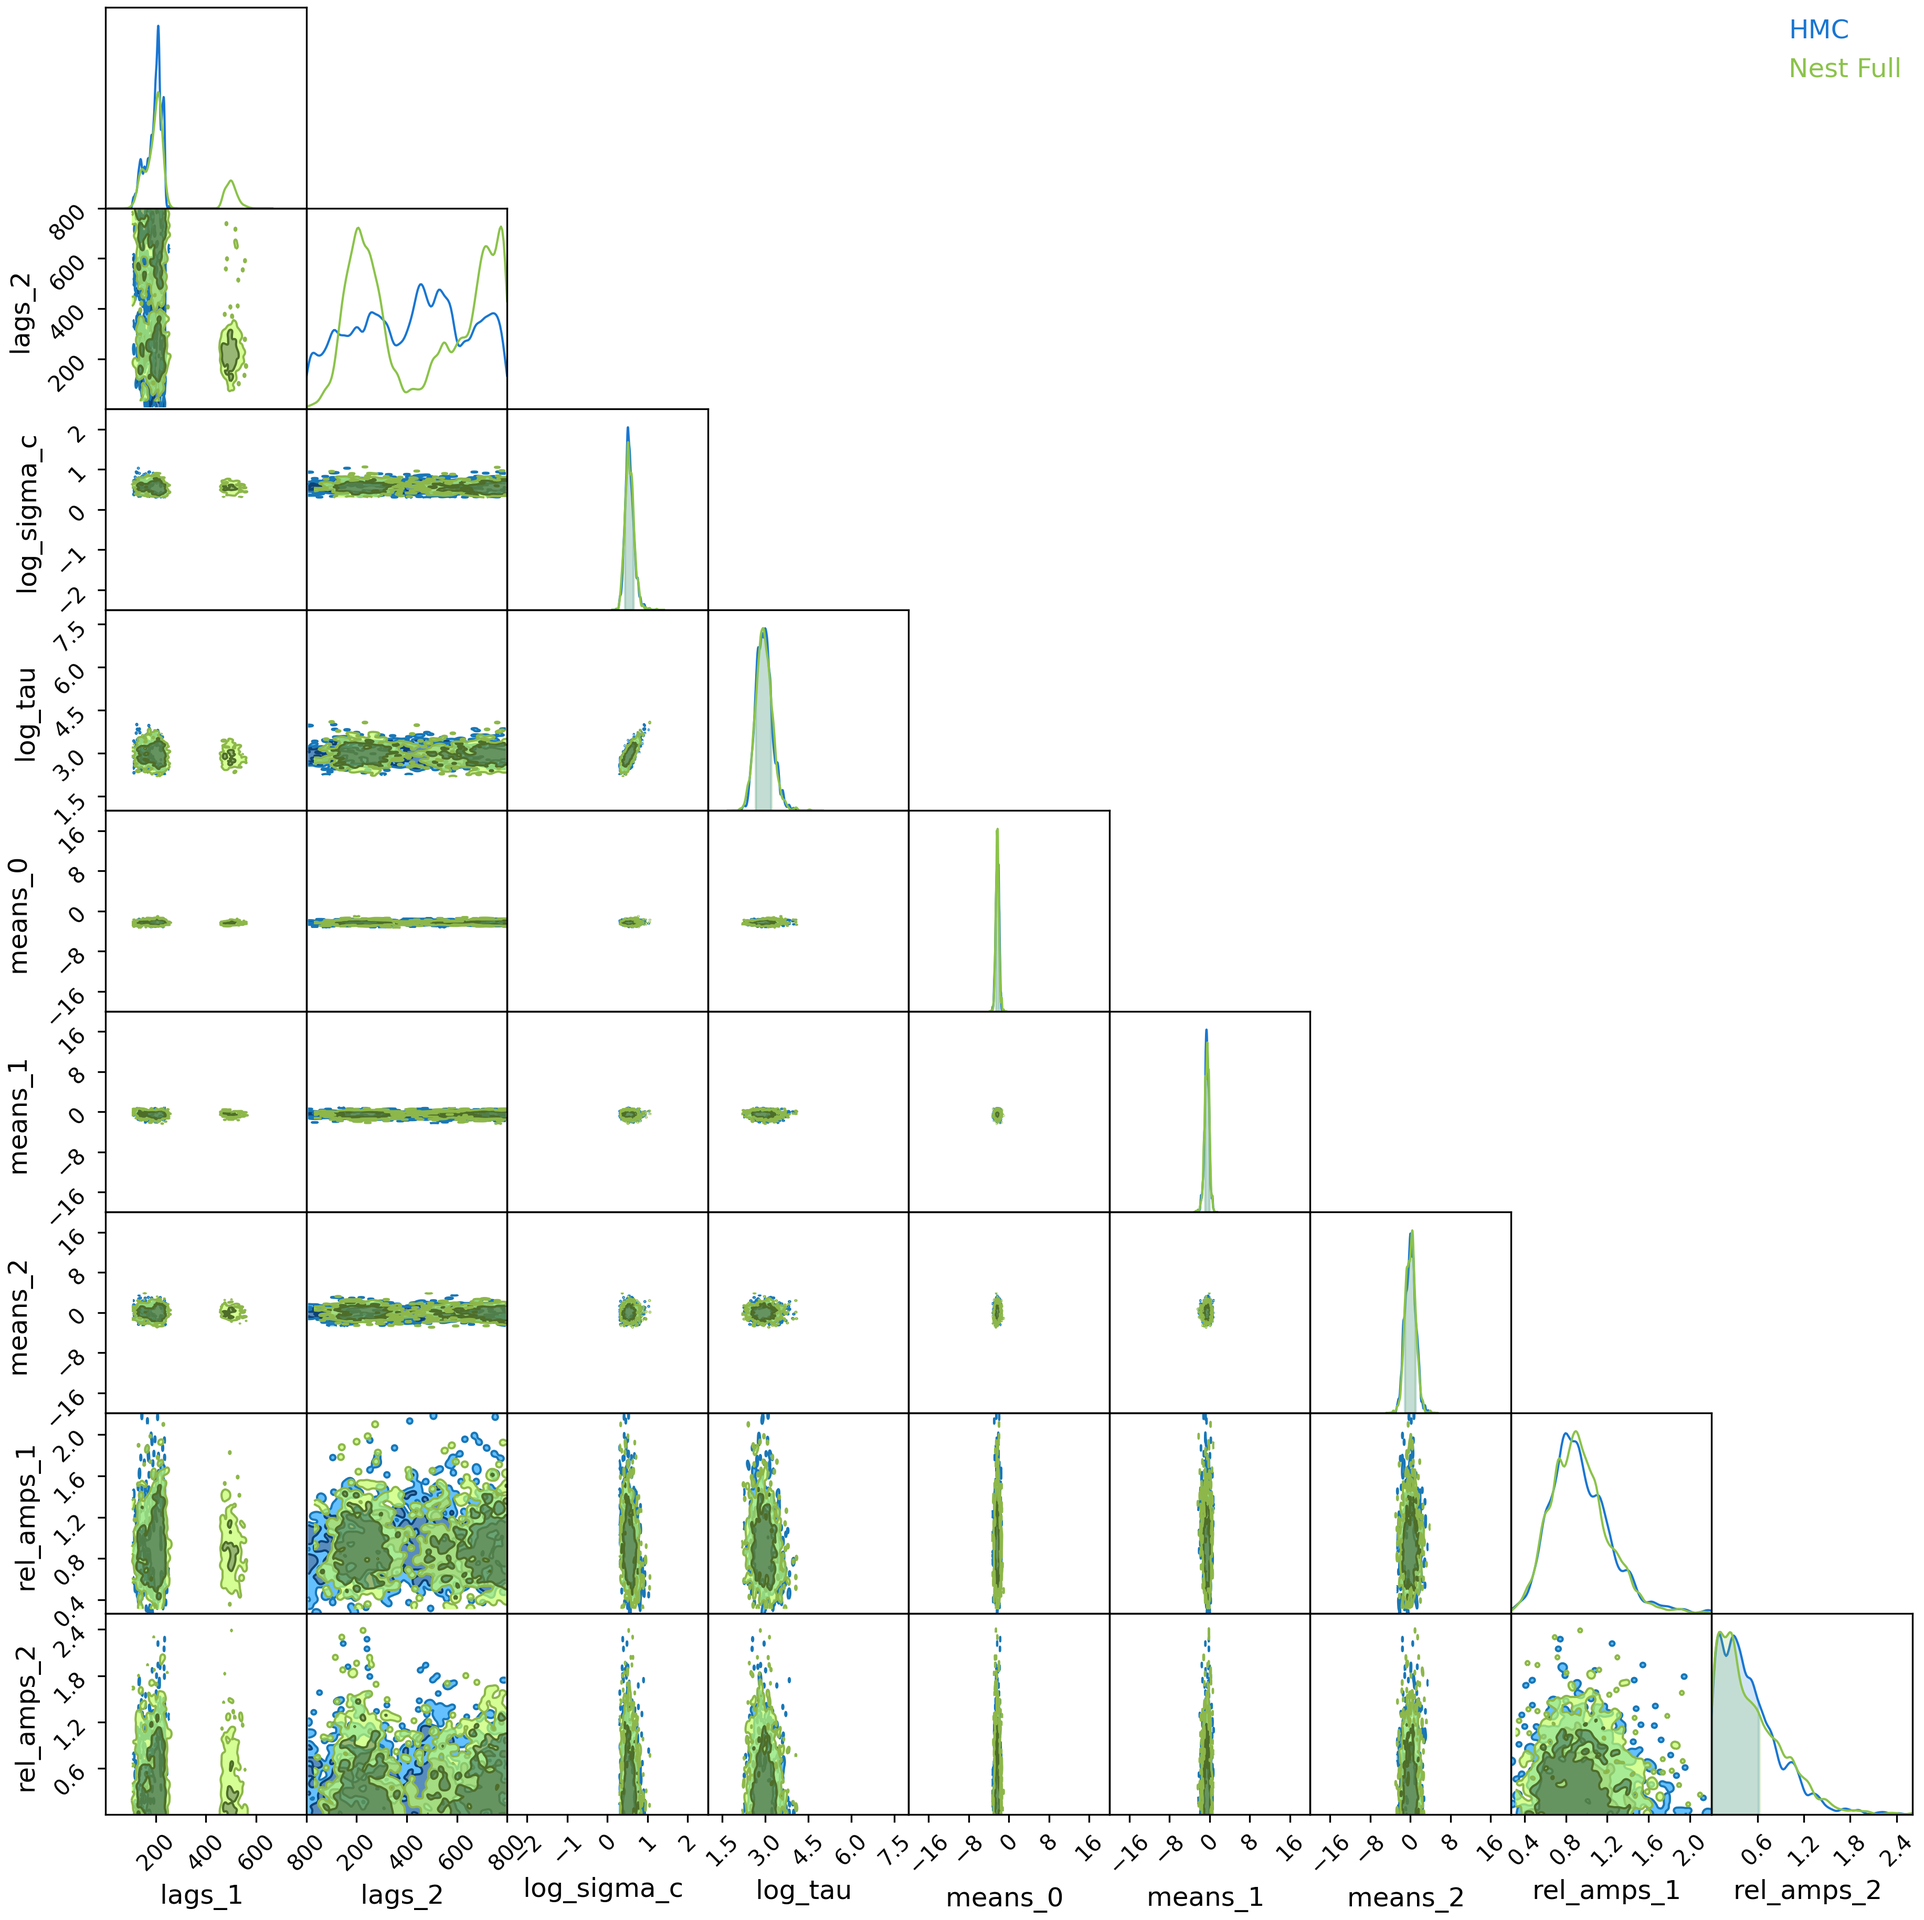
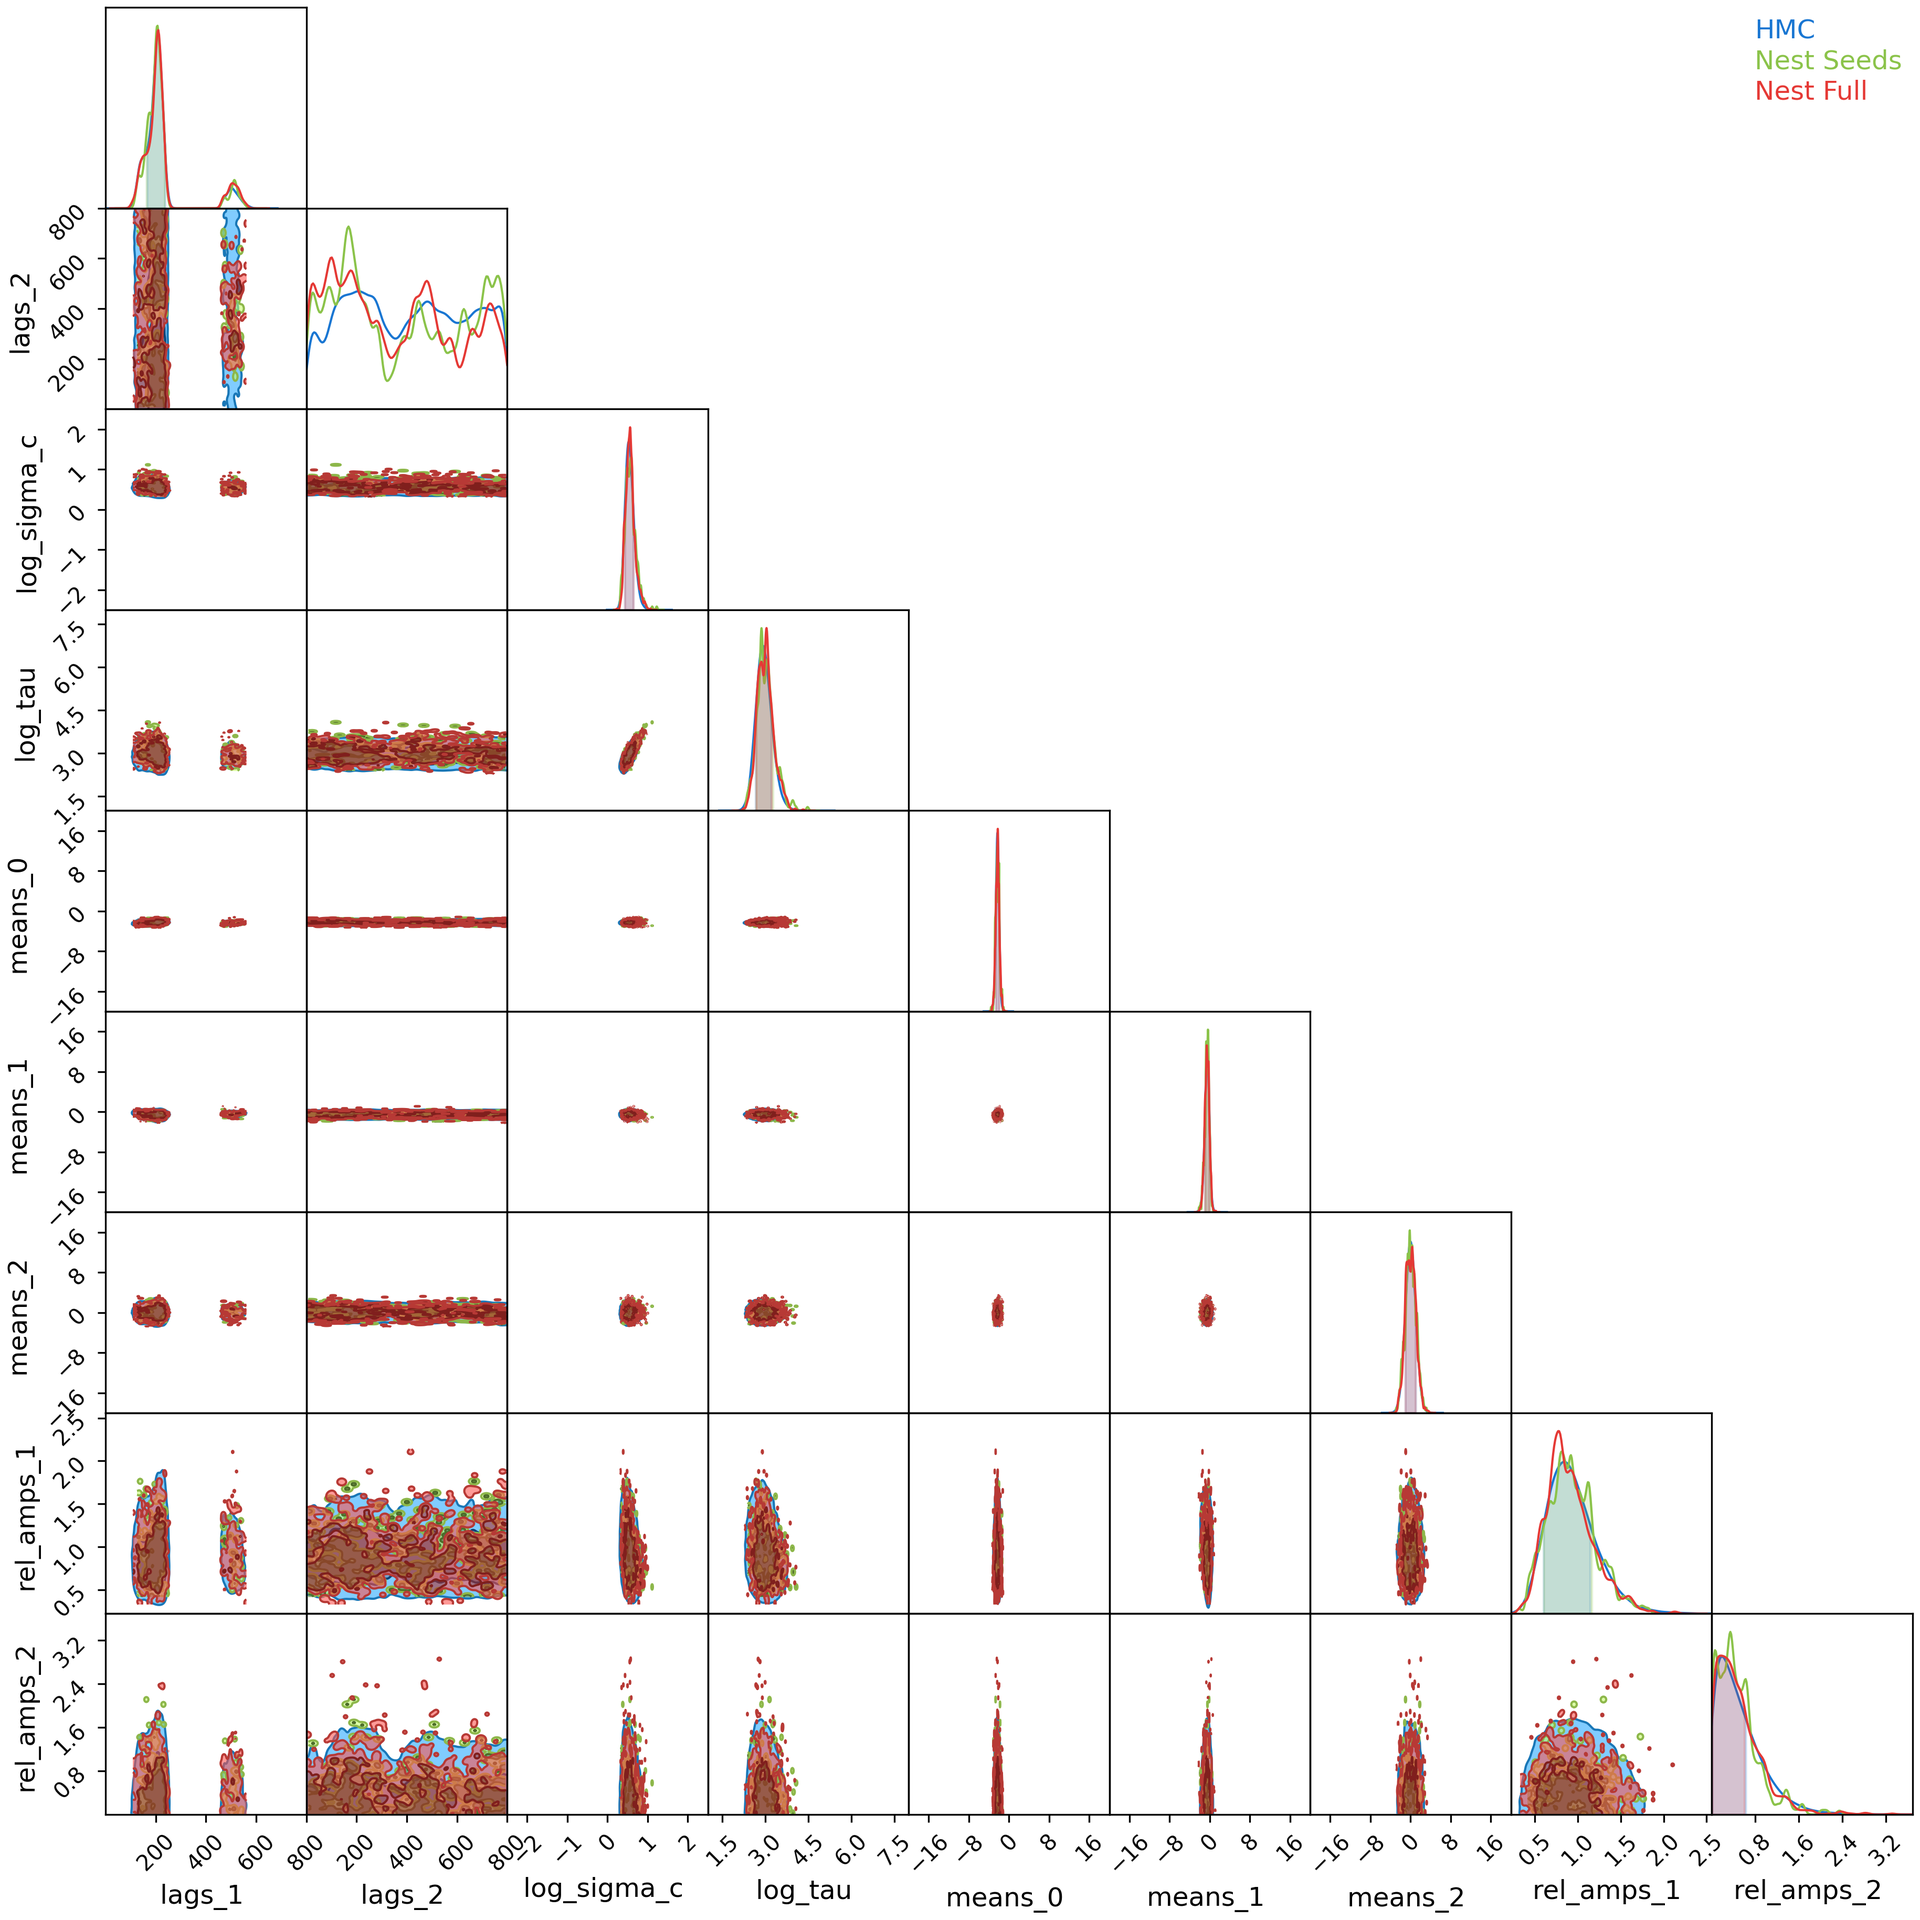
auto commit via batch

diff --git a/Data/real_data/00-B-2925372393/makecontours.py b/Data/real_data/00-B-2925372393/makecontours.py
@@ -14,7 +14,7 @@ KEYS = np.loadtxt("outchain_keys.dat", dtype="str_")
 
 c = ChainConsumer()
 c.add_chain(DATA, parameters = list(KEYS), name = "HMC")
-#c.add_chain(NEST_SEED, parameters = list(KEYS), name = "Nest Seeds")
+c.add_chain(NEST_SEED, parameters = list(KEYS), name = "Nest Seeds")
 c.add_chain(NEST_FULL, parameters = list(KEYS), name = "Nest Full")
 
 truth = {"rel_amps_0" : 1,
